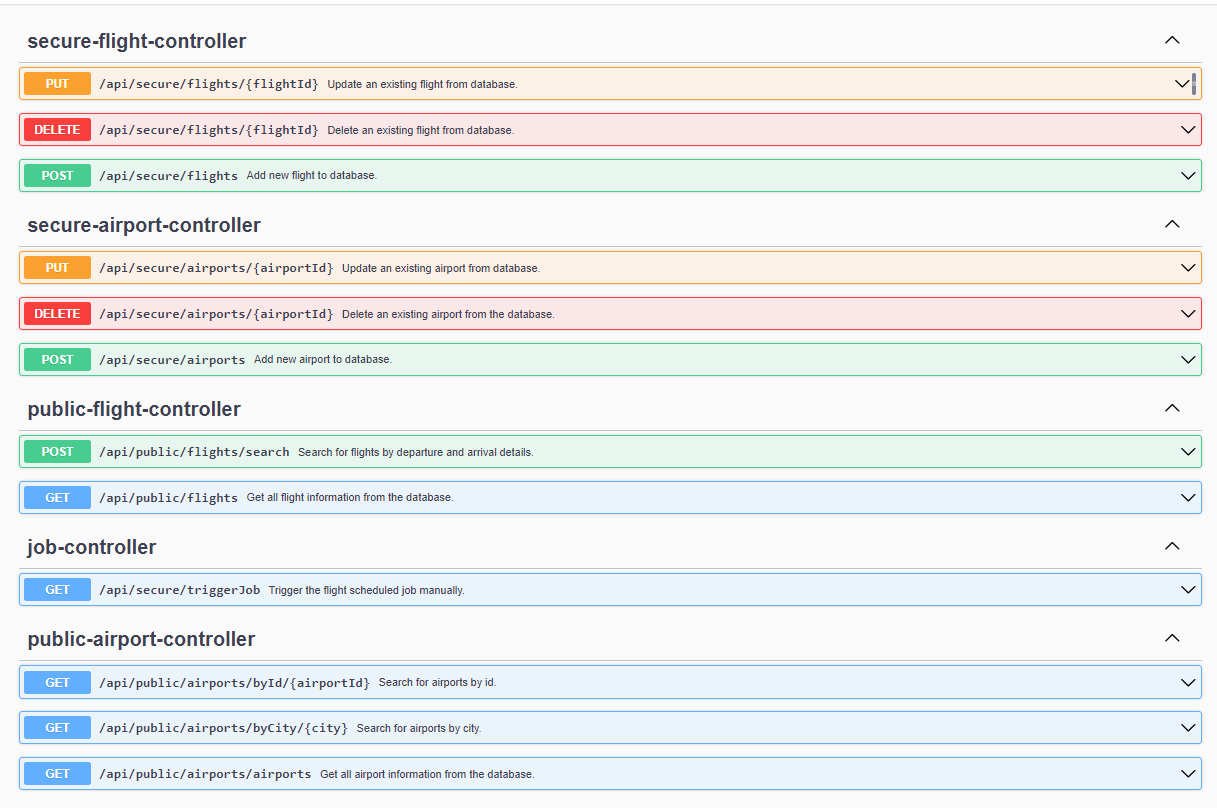
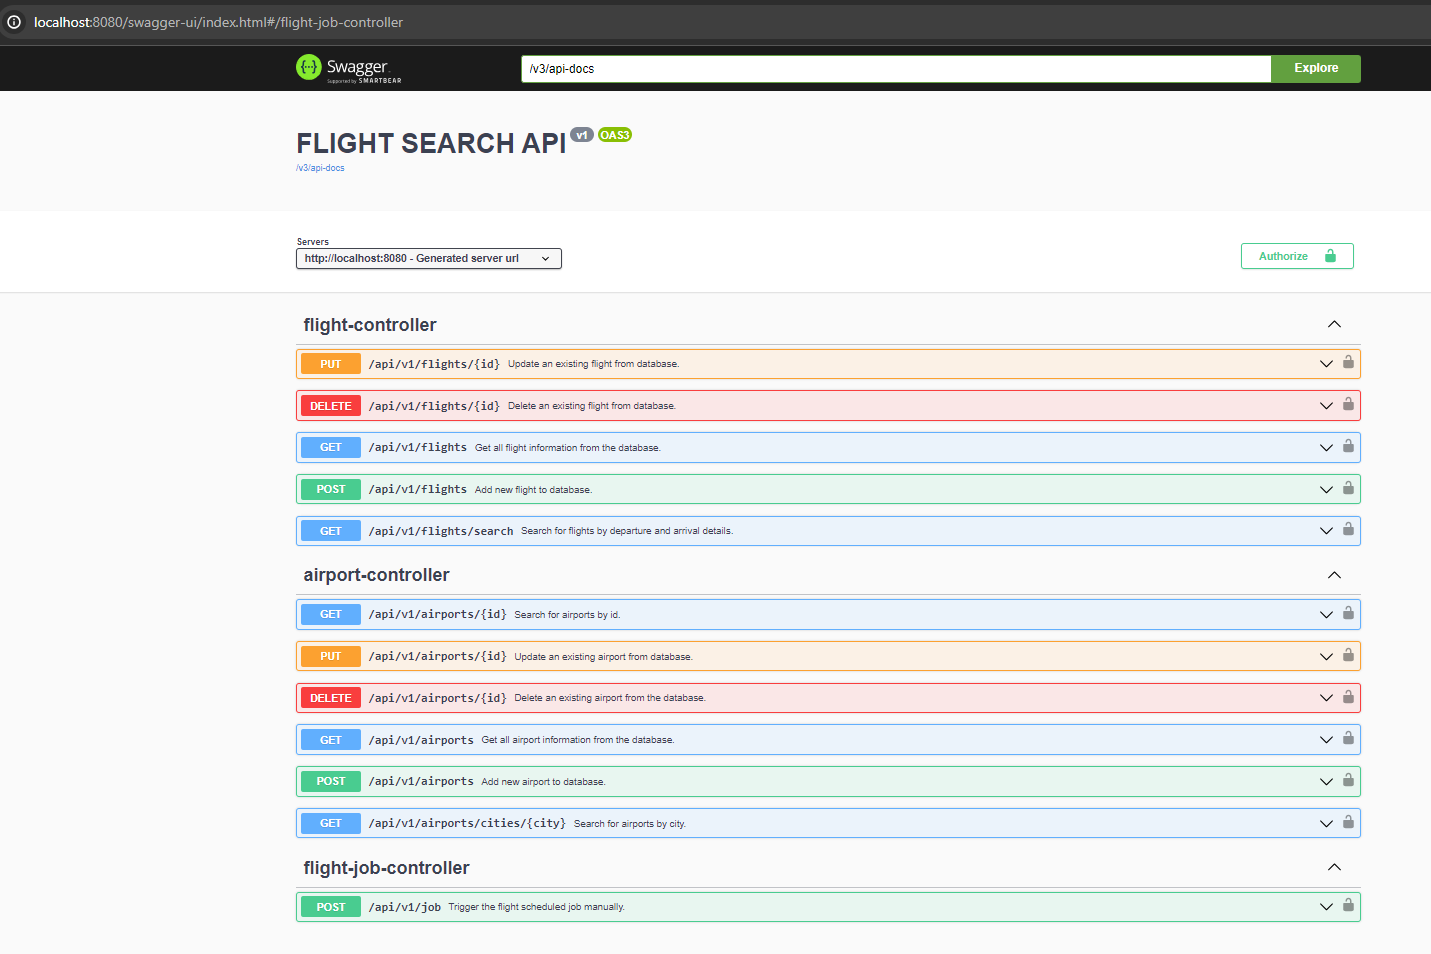
add open-api-config/ exception handling/ custom exceptions

Changed region(s): [[0.0, 0.0, 1.0, 0.9901], [0.8743, 0.2475, 0.9367, 0.2785], [0.968, 0.3094, 0.9992, 0.3403]]

diff --git a/src/main/java/dev/erenuygur/flightsearchapi/controller/AirportController.java b/src/main/java/dev/erenuygur/flightsearchapi/controller/AirportController.java
@@ -1,0 +1,70 @@
+package dev.erenuygur.flightsearchapi.controller;
+
+import dev.erenuygur.flightsearchapi.model.entity.Airport;
+import dev.erenuygur.flightsearchapi.service.AirportService;
+import io.swagger.v3.oas.annotations.Operation;
+import lombok.RequiredArgsConstructor;
+import org.springframework.http.ResponseEntity;
+import org.springframework.web.bind.annotation.*;
+
+import java.util.List;
+
+@RequiredArgsConstructor
+@RestController
+@RequestMapping("/api/v1/airports")
+public class AirportController {
+
+    private final AirportService airportService;
+
+    @Operation(summary = "Get all airport information from the database.", operationId = "getAllAirports")
+    @GetMapping()
+    public ResponseEntity<List<Airport>> getAllAirports() {
+        List<Airport> airports = airportService.getAllAirports();
+        return ResponseEntity.ok(airports);
+    }
+
+    @Operation(summary = "Search for airports by city.", operationId = "getAirportsByCity")
+    @GetMapping("/cities/{city}")
+    public ResponseEntity<List<Airport>> getAirportsByCity(@PathVariable String city) {
+        List<Airport> airports = airportService.getAirportsByCity(city);
+
+        return ResponseEntity.ok(airports);
+    }
+
+    @Operation(summary = "Search for airports by id.", operationId = "getAirportByAirportId")
+    @GetMapping("/{id}")
+    public ResponseEntity<Airport> getAirportByAirportId(@PathVariable Long id) {
+        Airport airport = airportService.getAirportById(id);
+
+        return ResponseEntity.ok(airport);
+    }
+
+    @Operation(summary = "Add new airport to database.", operationId = "createAirport")
+    @PostMapping
+    public ResponseEntity<Airport> createAirport(@RequestBody Airport airport) {
+        Airport createdAirport = airportService.createAirport(airport);
+        return ResponseEntity.ok().body(createdAirport);
+    }
+
+    @Operation(summary = "Update an existing airport from database.", operationId = "updateAirport")
+    @PutMapping("/{id}")
+    public ResponseEntity<Airport> updateAirport(@PathVariable Long id, @RequestBody Airport airport) {
+        Airport updatedAirport = airportService.updateAirport(id, airport);
+        if (updatedAirport != null) {
+            return ResponseEntity.ok(updatedAirport);
+        } else {
+            return ResponseEntity.notFound().build();
+        }
+    }
+
+    @Operation(summary = "Delete an existing airport from the database.", operationId = "deleteAirport")
+    @DeleteMapping("/{id}")
+    public ResponseEntity<Void> deleteAirport(@PathVariable Long id) {
+        if (id == null || id <= 0) {
+            return ResponseEntity.badRequest().build();
+        }
+
+        airportService.deleteAirport(id);
+        return ResponseEntity.noContent().build();
+    }
+}

diff --git a/src/main/java/dev/erenuygur/flightsearchapi/controller/FlightController.java b/src/main/java/dev/erenuygur/flightsearchapi/controller/FlightController.java
@@ -2,6 +2,7 @@ package dev.erenuygur.flightsearchapi.controller;
 
 import dev.erenuygur.flightsearchapi.model.dto.FlightResponseDTO;
 import dev.erenuygur.flightsearchapi.model.dto.FlightRequestDTO;
+import dev.erenuygur.flightsearchapi.model.entity.Flight;
 import dev.erenuygur.flightsearchapi.service.FlightService;
 import io.swagger.v3.oas.annotations.Operation;
 import lombok.RequiredArgsConstructor;
@@ -12,11 +13,10 @@ import java.util.List;
 
 @RequiredArgsConstructor
 @RestController
-@RequestMapping("/api/public/flights")
-public class PublicFlightController {
+@RequestMapping("/api/v1/flights")
+public class FlightController {
 
     private final FlightService flightService;
-
 
     @Operation(summary = "Get all flight information from the database.", operationId = "getAllFlights")
     @GetMapping
@@ -30,7 +30,7 @@ public class PublicFlightController {
             description = "Optionally, if the return date-time is given, it will also provide flight information for the return.",
             operationId = "searchFlights"
     )
-    @PostMapping("/search")
+    @GetMapping("/search")
     public ResponseEntity<List<FlightResponseDTO>> searchFlights(@RequestBody FlightRequestDTO searchRequest) {
         List<FlightResponseDTO> flights = flightService.searchFlights(
                 searchRequest.getDepartureCity(),
@@ -39,5 +39,30 @@ public class PublicFlightController {
                 searchRequest.getReturnDateTime()
         );
         return ResponseEntity.ok(flights);
+    }
+
+    @Operation(summary = "Add new flight to database.", operationId = "createFlight")
+    @PostMapping
+    public ResponseEntity<Flight> createFlight(@RequestBody Flight flight) {
+        Flight createdFlight = flightService.createFlight(flight);
+        return ResponseEntity.ok().body(createdFlight);
+    }
+
+    @Operation(summary = "Update an existing flight from database.", operationId = "updateFlight")
+    @PutMapping("/{id}")
+    public ResponseEntity<Flight> updateFlight(@PathVariable Long id, @RequestBody Flight flight) {
+        Flight updatedFlight = flightService.updateFlight(id, flight);
+        if (updatedFlight != null) {
+            return ResponseEntity.ok(updatedFlight);
+        } else {
+            return ResponseEntity.notFound().build();
+        }
+    }
+
+    @Operation(summary = "Delete an existing flight from database.", operationId = "deleteFlight")
+    @DeleteMapping("/{id}")
+    public ResponseEntity<Void> deleteFlight(@PathVariable Long id) {
+        flightService.deleteFlight(id);
+        return ResponseEntity.noContent().build();
     }
 }

diff --git a/src/main/java/dev/erenuygur/flightsearchapi/service/impl/FlightServiceImpl.java b/src/main/java/dev/erenuygur/flightsearchapi/service/impl/FlightServiceImpl.java
@@ -1,11 +1,12 @@
 package dev.erenuygur.flightsearchapi.service.impl;
 
+import dev.erenuygur.flightsearchapi.exception.AirportNotFoundException;
 import dev.erenuygur.flightsearchapi.model.dto.FlightResponseDTO;
+import dev.erenuygur.flightsearchapi.model.entity.Airport;
 import dev.erenuygur.flightsearchapi.model.entity.Flight;
 import dev.erenuygur.flightsearchapi.repository.AirportRepository;
 import dev.erenuygur.flightsearchapi.repository.FlightRepository;
 import dev.erenuygur.flightsearchapi.service.FlightService;
-import jakarta.transaction.Transactional;
 import lombok.RequiredArgsConstructor;
 import org.springframework.stereotype.Service;
 
@@ -41,8 +42,15 @@ public class FlightServiceImpl implements FlightService {
     }
 
     public FlightResponseDTO convertToDTO(Flight flight) {
-        String departureAirportCity = airportRepository.getById(flight.getDepartureAirportId()).getCity();
-        String arrivalAirportCity = airportRepository.getById(flight.getArrivalAirportId()).getCity();
+
+        Airport departureAirport = airportRepository.findById(flight.getDepartureAirportId())
+                .orElseThrow(AirportNotFoundException::new);
+
+        Airport arrivalAirport = airportRepository.findById(flight.getArrivalAirportId())
+                .orElseThrow(AirportNotFoundException::new);
+
+        String departureAirportCity = departureAirport.getCity();
+        String arrivalAirportCity = arrivalAirport.getCity();
 
         FlightResponseDTO flightResponseDTO = new FlightResponseDTO();
         flightResponseDTO.setArrivalCity(arrivalAirportCity);
@@ -54,13 +62,11 @@ public class FlightServiceImpl implements FlightService {
     }
 
     @Override
-    @Transactional
     public Flight createFlight(Flight flight) {
         return flightRepository.save(flight);
     }
 
     @Override
-    @Transactional
     public void deleteFlight(Long id) {
         flightRepository.deleteById(id);
     }
@@ -89,7 +95,6 @@ public class FlightServiceImpl implements FlightService {
     }
 
     @Override
-    @Transactional
     public Flight updateFlight(Long id, Flight flight) {
         if (flightRepository.existsById(id)) {
             flight.setId(id);

diff --git a/src/main/java/dev/erenuygur/flightsearchapi/config/security/SecurityConfig.java b/src/main/java/dev/erenuygur/flightsearchapi/config/security/SecurityConfig.java
@@ -2,6 +2,7 @@ package dev.erenuygur.flightsearchapi.config.security;
 
 import org.springframework.context.annotation.Bean;
 import org.springframework.context.annotation.Configuration;
+import org.springframework.http.HttpMethod;
 import org.springframework.security.config.Customizer;
 import org.springframework.security.config.annotation.web.builders.HttpSecurity;
 import org.springframework.security.config.annotation.web.configuration.EnableWebSecurity;
@@ -19,10 +20,15 @@ public class SecurityConfig {
     public SecurityFilterChain securityFilterChain(HttpSecurity http) throws Exception {
         http
                 .authorizeHttpRequests((authorize) -> authorize
-                        .requestMatchers("/api/secure/**", "/swagger-ui/**").authenticated()
+                        .requestMatchers("/swagger-ui/**", "/v3/api-docs").permitAll()
+                        .requestMatchers(HttpMethod.POST, "/api/v1/**").hasRole("ADMIN")
+                        .requestMatchers(HttpMethod.PUT, "/api/v1/**").hasRole("ADMIN")
+                        .requestMatchers(HttpMethod.DELETE, "/api/v1/**").hasRole("ADMIN")
+                        .requestMatchers(HttpMethod.GET, "/api/v1/**").permitAll()
                         .anyRequest().permitAll()
                 )
                 .httpBasic(Customizer.withDefaults())
+                .csrf().disable()
                 .formLogin(Customizer.withDefaults());
 
         return http.build();
@@ -33,7 +39,7 @@ public class SecurityConfig {
         UserDetails userDetails = User.withDefaultPasswordEncoder()
                 .username("admin")
                 .password("admin")
-                .roles("USER")
+                .roles("ADMIN")
                 .build();
 
         return new InMemoryUserDetailsManager(userDetails);

diff --git a/src/main/java/dev/erenuygur/flightsearchapi/service/impl/AirportServiceImpl.java b/src/main/java/dev/erenuygur/flightsearchapi/service/impl/AirportServiceImpl.java
@@ -1,14 +1,13 @@
 package dev.erenuygur.flightsearchapi.service.impl;
 
+import dev.erenuygur.flightsearchapi.exception.AirportNotFoundException;
 import dev.erenuygur.flightsearchapi.model.entity.Airport;
 import dev.erenuygur.flightsearchapi.repository.AirportRepository;
 import dev.erenuygur.flightsearchapi.service.AirportService;
 import lombok.RequiredArgsConstructor;
 import org.springframework.stereotype.Service;
-import org.springframework.transaction.annotation.Transactional;
 
 import java.util.List;
-import java.util.Optional;
 
 @RequiredArgsConstructor
 @Service
@@ -22,8 +21,8 @@ public class AirportServiceImpl implements AirportService {
     }
 
     @Override
-    public Optional<Airport> getAirportById(Long id) {
-        return airportRepository.findById(id);
+    public Airport getAirportById(Long id) {
+        return airportRepository.findById(id).orElseThrow(AirportNotFoundException::new);
     }
 
     @Override
@@ -32,13 +31,11 @@ public class AirportServiceImpl implements AirportService {
     }
 
     @Override
-    @Transactional
     public Airport createAirport(Airport airport) {
         return airportRepository.save(airport);
     }
 
     @Override
-    @Transactional
     public Airport updateAirport(Long id, Airport airport) {
         if (airportRepository.existsById(id)) {
             airport.setId(id);
@@ -48,7 +45,6 @@ public class AirportServiceImpl implements AirportService {
     }
 
     @Override
-    @Transactional
     public void deleteAirport(Long id) {
         airportRepository.deleteById(id);
     }

diff --git a/src/main/java/dev/erenuygur/flightsearchapi/controller/FlightJobController.java b/src/main/java/dev/erenuygur/flightsearchapi/controller/FlightJobController.java
@@ -2,24 +2,20 @@ package dev.erenuygur.flightsearchapi.controller;
 
 import dev.erenuygur.flightsearchapi.job.FlightScheduledJob;
 import io.swagger.v3.oas.annotations.Operation;
-import org.springframework.beans.factory.annotation.Autowired;
-import org.springframework.web.bind.annotation.GetMapping;
+import lombok.RequiredArgsConstructor;
+import org.springframework.web.bind.annotation.PostMapping;
 import org.springframework.web.bind.annotation.RequestMapping;
 import org.springframework.web.bind.annotation.RestController;
 
+@RequiredArgsConstructor
 @RestController
-@RequestMapping("/api/secure")
-public class SecureJobController {
+@RequestMapping("/api/v1/job")
+public class FlightJobController {
 
     private final FlightScheduledJob flightScheduledJob;
 
-    @Autowired
-    public SecureJobController(FlightScheduledJob flightScheduledJob) {
-        this.flightScheduledJob = flightScheduledJob;
-    }
-
     @Operation(summary = "Trigger the flight scheduled job manually.")
-    @GetMapping("/triggerJob")
+    @PostMapping
     public String triggerJob() {
         flightScheduledJob.processJsonFile();
         return "Job triggered manually.";

diff --git a/src/main/java/dev/erenuygur/flightsearchapi/exception/handling/GlobalExceptionHandler.java b/src/main/java/dev/erenuygur/flightsearchapi/exception/handling/GlobalExceptionHandler.java
@@ -1,0 +1,18 @@
+package dev.erenuygur.flightsearchapi.exception.handling;
+
+import dev.erenuygur.flightsearchapi.exception.AirportNotFoundException;
+import org.springframework.http.HttpStatus;
+import org.springframework.http.ResponseEntity;
+import org.springframework.web.bind.annotation.ControllerAdvice;
+import org.springframework.web.bind.annotation.ExceptionHandler;
+import org.springframework.web.context.request.WebRequest;
+
+@ControllerAdvice
+public class GlobalExceptionHandler {
+
+    @ExceptionHandler(AirportNotFoundException.class)
+    protected ResponseEntity<String> handleAirportNotFoundException(AirportNotFoundException ex, WebRequest request) {
+        return new ResponseEntity<>(ex.getMessage(), HttpStatus.BAD_REQUEST);
+    }
+
+}

diff --git a/src/main/java/dev/erenuygur/flightsearchapi/config/OpenApiConfig.java b/src/main/java/dev/erenuygur/flightsearchapi/config/OpenApiConfig.java
@@ -1,0 +1,18 @@
+package dev.erenuygur.flightsearchapi.config;
+
+import io.swagger.v3.oas.annotations.OpenAPIDefinition;
+import io.swagger.v3.oas.annotations.enums.SecuritySchemeType;
+import io.swagger.v3.oas.annotations.info.Info;
+import io.swagger.v3.oas.annotations.security.SecurityRequirement;
+import io.swagger.v3.oas.annotations.security.SecurityScheme;
+import org.springframework.context.annotation.Configuration;
+
+@Configuration
+@SecurityScheme(name = "basicAuth", type = SecuritySchemeType.HTTP,
+        scheme = "basic")
+@OpenAPIDefinition(
+        info = @Info(title = "FLIGHT SEARCH API", version = "v1"),
+        security = @SecurityRequirement(name = "basicAuth")
+)
+public class OpenApiConfig {
+}

diff --git a/src/main/java/dev/erenuygur/flightsearchapi/service/AirportService.java b/src/main/java/dev/erenuygur/flightsearchapi/service/AirportService.java
@@ -3,12 +3,11 @@ package dev.erenuygur.flightsearchapi.service;
 import dev.erenuygur.flightsearchapi.model.entity.Airport;
 
 import java.util.List;
-import java.util.Optional;
 
 public interface AirportService {
     List<Airport> getAllAirports();
 
-    Optional<Airport> getAirportById(Long id);
+    Airport getAirportById(Long id);
 
     List<Airport> getAirportsByCity(String city);
 

diff --git a/src/main/java/dev/erenuygur/flightsearchapi/exception/AirportNotFoundException.java b/src/main/java/dev/erenuygur/flightsearchapi/exception/AirportNotFoundException.java
@@ -1,0 +1,7 @@
+package dev.erenuygur.flightsearchapi.exception;
+
+public class AirportNotFoundException extends RuntimeException {
+    public AirportNotFoundException() {
+        super("Airport is not exists.");
+    }
+}
